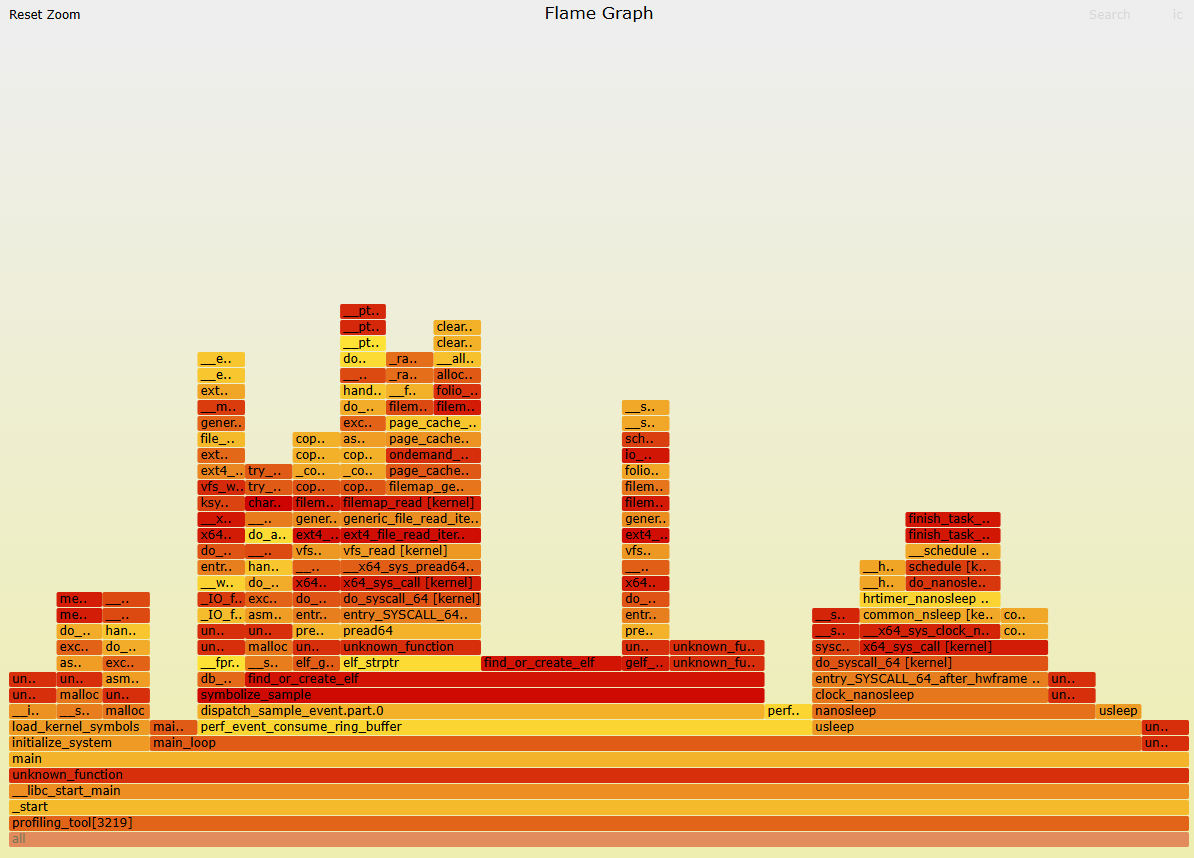
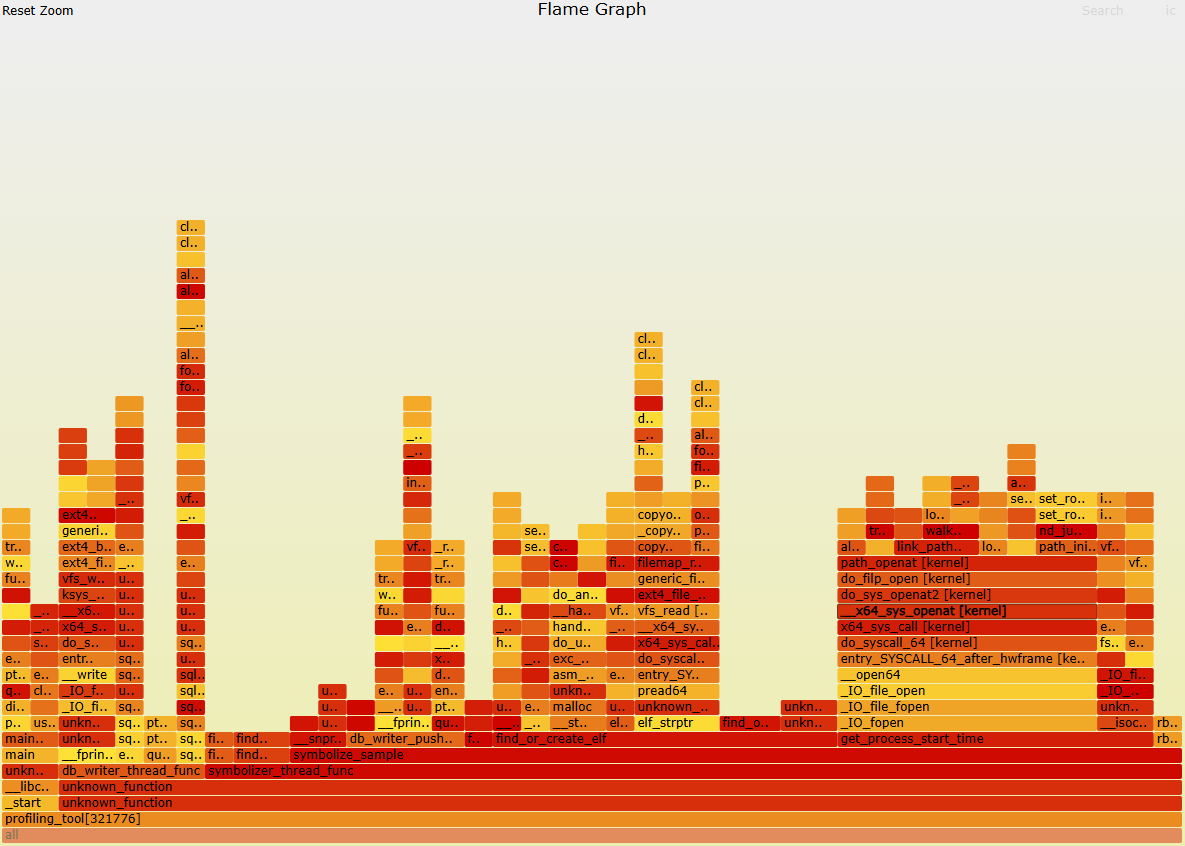
update

diff --git a/README.md b/README.md
@@ -2,7 +2,7 @@
 
 本项目是一个基于Linux `perf_event` 子系统的高性能采样分析器。它能够实时地将运行时指令地址（IP）转换为具体的函数符号，从而帮助开发者精确地定位用户态和内核态的性能热点。
 
-## Why?
+## Why continuous profiling is the fourth pillar of observability？
 
 常态化火焰图，解决的是性能抖动难以复现的问题。
 在线服务面对以下问题，现有排查工具通常无法及时定位问题现场：
@@ -22,7 +22,7 @@
 ## 核心能力
 
 - **全栈符号化**: 同时支持用户态（ELF符号）和内核态（kallsyms符号）的地址解析。
-- **双模式采样**: 支持基于软件定时器（默认，通用）和基于LBR硬件（可选，高精度）的两种采样模式。
+- **异步符号解析**: 与采集线程分离，`main_loop` 生产，`handler` 消费。
 - **实时符号化**: 采样地址到函数名的转换延迟极低，小于1毫秒。
 - **系统级监控**: 能够监控系统上的所有进程，提供全局性能视图。
 - **三级核心缓存**: 进程、ELF文件和内核符号三级缓存，最大化减少重复IO和解析开销。
@@ -44,7 +44,7 @@
 ├──────────────────────────────────────────────────────────────────────────────┤
 │ 事件循环层 (main_loop.c)                                                      
 │ ├── mmap环形缓冲区消费: perf_event_consume_ring_buffer()                       
-│ ├── 采样分发: dispatch_sample_event() → symbolize_sample()                    
+│ ├── 采样分发（生产者）: dispatch_sample_event() → queue_push(symbolizer_queue)                    
 │ └── 定期清理: cleanup_dead_processes()                                        
 ├──────────────────────────────────────────────────────────────────────────────┤
 │ 采样源 / Perf 层 (perf.c)                                                     
@@ -52,7 +52,8 @@
 │ ├── sample_type: IP/TID/TIME/CALLCHAIN 或 BRANCH_STACK + REGS_USER           
 │ └── exclude_kernel/idle, mmap环形缓冲区                                       
 ├──────────────────────────────────────────────────────────────────────────────┤
-│ 采样与符号化层 (handler.c)                                                     
+│ 采样与符号化层 (handler.c)                                                      
+│ ├── 符号化消费（消费者）: queue_pop(symbolizer_queue) → symbolize_sample()     
 │ ├── 地址空间判断与过滤: FILTER_USER / FILTER_KERNEL                            
 │ ├── 内核符号解析: find_kernel_symbol() [kernel]                               
 │ ├── 用户符号解析: find_new_process() → find_vma_from_process()                
@@ -71,12 +72,11 @@
 │ ├── 辅助脚本: smart_query.sh → flamegraph.pl                                  
 │ └── 可视化输出: profile.svg                                                    
 ├─────────────────┬────────────────────┬──────────────────────┬──────────────────┤
-│ELF解析层         进程管理             数据结构与工具层         内核符号解析层   
-│ elf.c            process.c           rbtree.c + hash.c      kernel_symbol.c  
-│ ├── ELF解析      ├── 进程创建         ├── 红黑树操作          ├── kallsyms解析 
-│ ├── 符号提取      ├── VMA管理         ├── 哈希表实现          └── 内核符号缓存 
-│ └── ELF缓存       └── 死进程清理      ├── 核心缓存                            
-│                                      └── 速率限制                            
+│ELF解析层       进程管理             数据结构与工具层         内核符号解析层   
+│ elf.c           process.c          utils                  kernel_symbol.c  
+│ ├── ELF解析     ├── 进程创建         ├── 红黑树操作          ├── kallsyms解析 
+│ ├── 符号提取     ├── VMA管理         ├── 哈希表实现          └── 内核符号缓存 
+│ └── ELF缓存      └── 死进程清理       ├── 核心缓存与内存池                                                        
 └─────────────────┴────────────────────┴──────────────────────┴──────────────────┘
 ```
 
@@ -171,7 +171,7 @@ sudo ./smart_query.sh --time "last 10 minutes" --flame > folded_stacks.txt
 - `status`: 查看性能分析工具、后台清理守护进程和 systemd 定时任务的状态。
 - `cleanup`: 手动清理旧数据。
   - 选项: `--days <NUM>`, `--dry-run`
-- `install`: 安装 systemd 定时任务，用于定期清理旧数据。
+- `install`: 安装 systemd 定时任务，用于定期清理数据库旧数据。
 - `uninstall`: 卸载 systemd 定时任务。
 - `logs`: 查看 `profiling_tool` 的实时日志。
 
